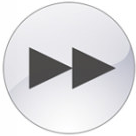
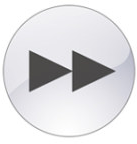
Fixed image outline issue (Firexox). Changed vid carousel to use nav buttons. Added endorsements page.

diff --git a/public/css/carousel-skin-tango.css b/public/css/carousel-skin-tango.css
@@ -3,7 +3,7 @@
     -webkit-border-radius: 10px;
    border-radius: 10px;
     background: #297ACC;
-    border: 1px outset ;
+    border: 3px outset ;
 }
 
 .jcarousel-skin-tango .jcarousel-direction-rtl {

diff --git a/public/css/style.css b/public/css/style.css
@@ -50,6 +50,7 @@
     color: #0040A0;
 	text-align: center;
 	align: center;
+	border: 0px;
 }
 
 .dothespreadcolor {
